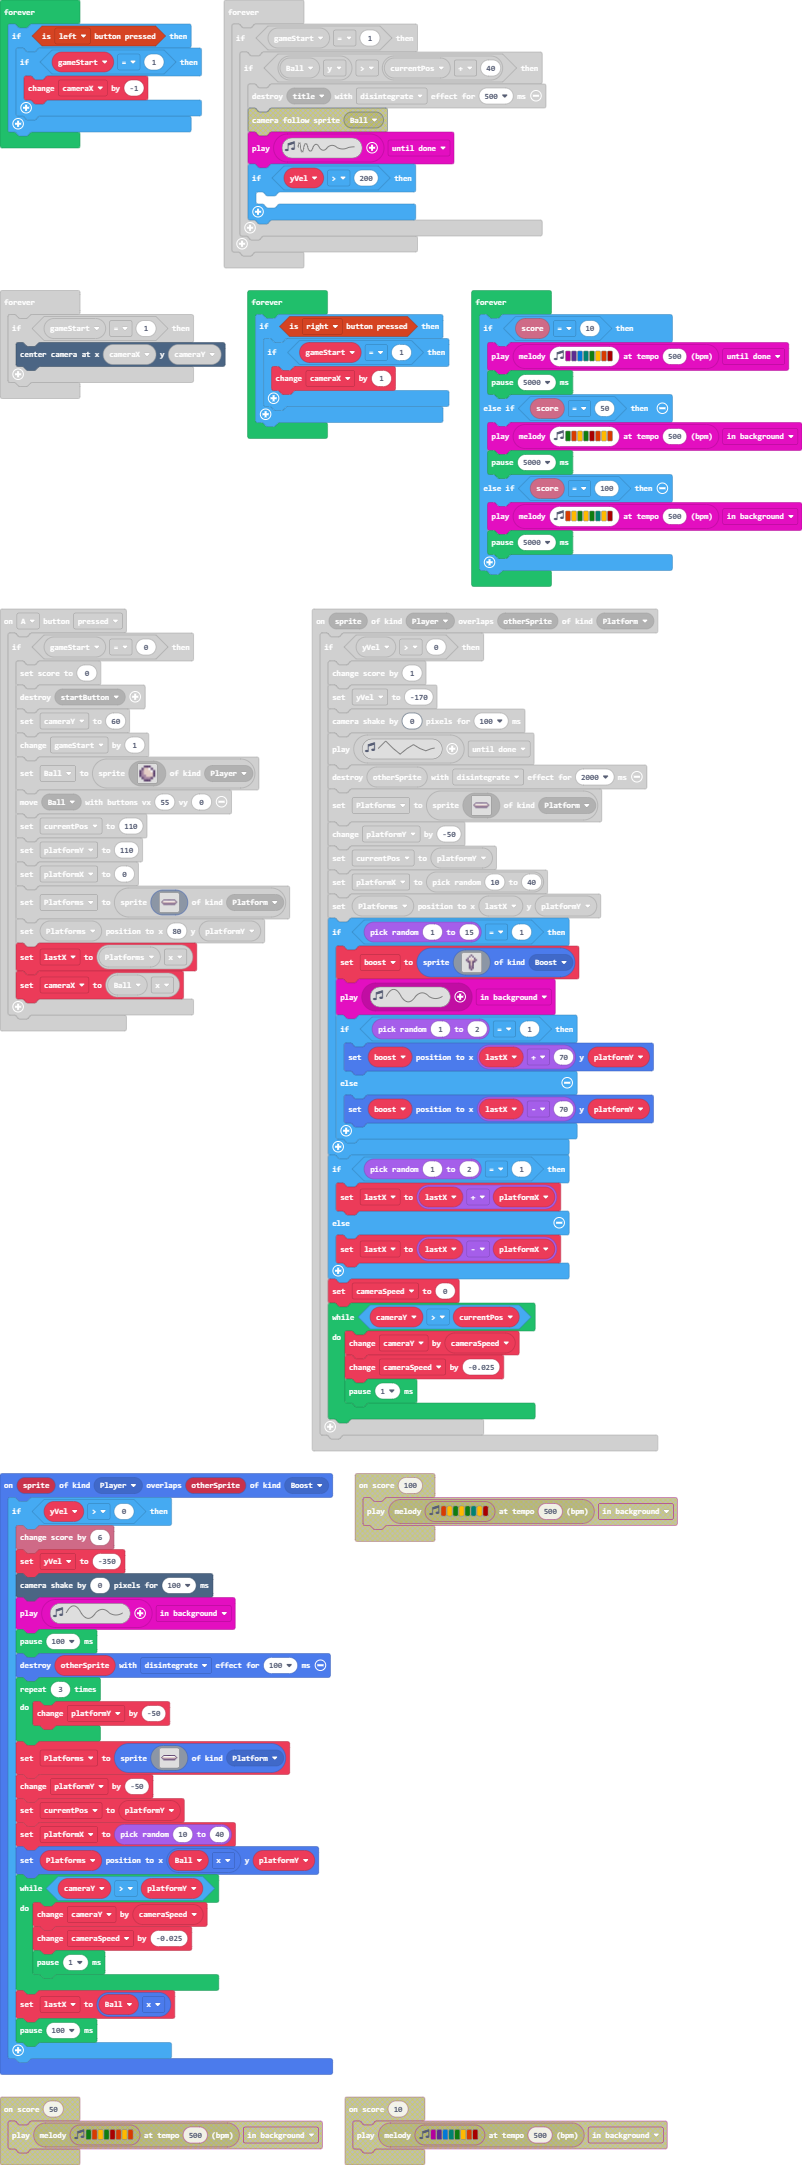
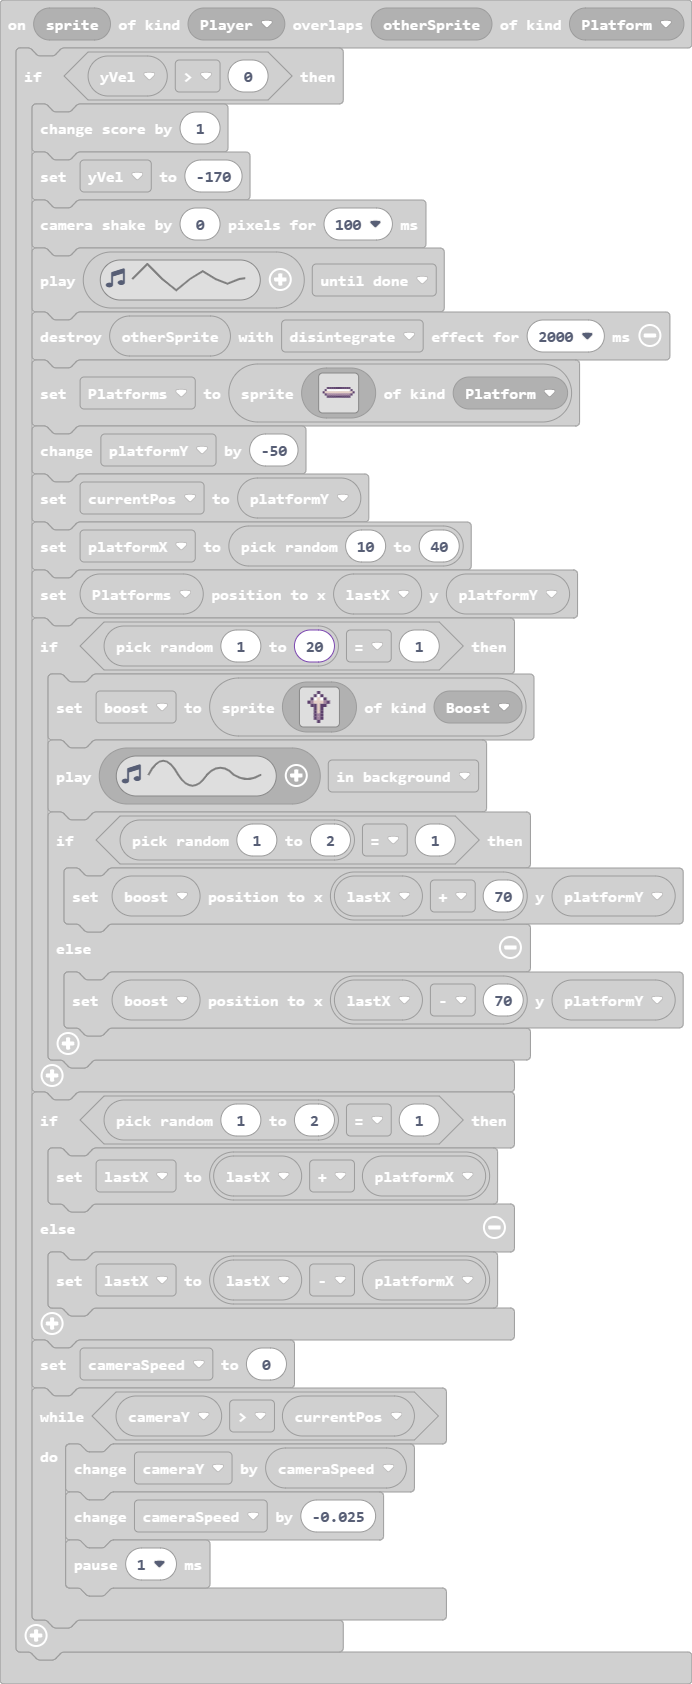
Update main.blocks, main.ts

diff --git a/main.ts b/main.ts
@@ -57,7 +57,7 @@ sprites.onOverlap(SpriteKind.Player, SpriteKind.Platform, function (sprite, othe
         currentPos = platformY
         platformX = randint(10, 40)
         Platforms.setPosition(lastX, platformY)
-        if (randint(1, 15) == 1) {
+        if (randint(1, 20) == 1) {
             boost = sprites.create(assets.image`boost`, SpriteKind.Boost)
             music.play(music.createSoundEffect(WaveShape.Sine, 1, 798, 255, 0, 100, SoundExpressionEffect.Warble, InterpolationCurve.Curve), music.PlaybackMode.InBackground)
             if (randint(1, 2) == 1) {
